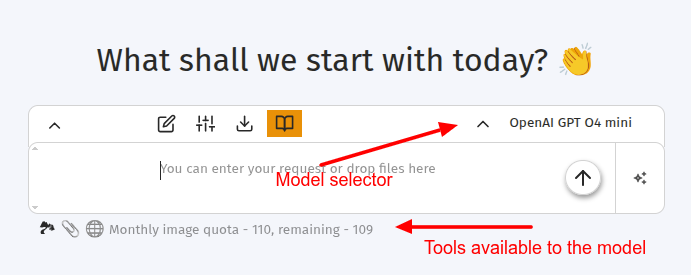
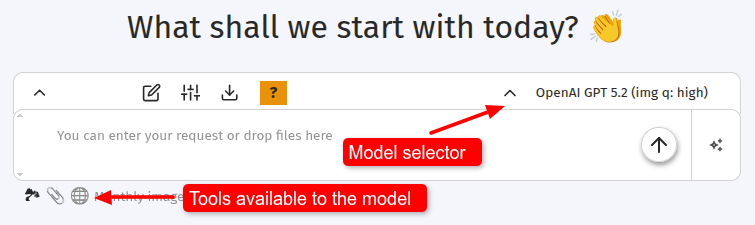
Models explained visual improvements

Changed region(s): [[0.0, 0.3111, 0.9725, 0.9644], [0.1216, 0.0622, 0.8813, 0.28], [0.6078, 0.8711, 0.9421, 0.9333]]

diff --git a/resources/views/partials/home/input-field.blade.php b/resources/views/partials/home/input-field.blade.php
@@ -46,8 +46,8 @@
                 @endif
 
                 @if(!$lite)
-                    <button class="btn-xs fast-access-btn bg-x-orange" value="export-panel" onclick="toggleModelsExplained(true)">
-                        <x-icon name="book"/>
+                    <button class="btn-xs fast-access-btn" value="export-panel" onclick="toggleModelsExplained(true)">
+                        <div class="bg-x-orange" style="font-size: 1rem; font-weight: bold; padding: 0px 10px">?</div>
                         <div class="tooltip">
                             {{ $translation["ModelsExplained"] }}
                         </div>
@@ -90,7 +90,7 @@
                         @endif
                         
                         <button class="btn-xs menu-item bg-x-orange" value="export-panel" onclick="toggleModelsExplained(true)">
-                            <x-icon name="book"/>
+                            <div class="bg-x-orange" style="font-size: 1rem; font-weight: bold; padding: 0px 10px">?</div>
                             <div class="label">{{ $translation["ModelsExplained"] }}</div>
                         </button>
 

diff --git a/resources/views/partials/home/modals/models-explained.blade.php b/resources/views/partials/home/modals/models-explained.blade.php
@@ -7,9 +7,9 @@
                 Different tools available depending on selected model:<br> 
                 - image generation - if enabled just ask for it, <br>
                 - file upload - if enabled drag and drop your files on the input area,<br>
-                - websearch - if enabled it will be used automatically i.e searching current weather.<br>
-                <div class="center-text"><img src="{{url('media/help_model_select.png')}}" width="500"></div>
-                <h2 class="center-text">Current model list</h2>
+                - websearch - if enabled it will be used automatically i.e searching current weather.<br><br>
+                <div class="center-text"><img src="{{url('media/help_model_select.png')}}" width="755"></div>
+                <h1 class="center-text">Current model list</h1>
                 <ul>
                     @foreach(config('model_providers.providers') as $provider)
                         @foreach($provider['models'] as $model)